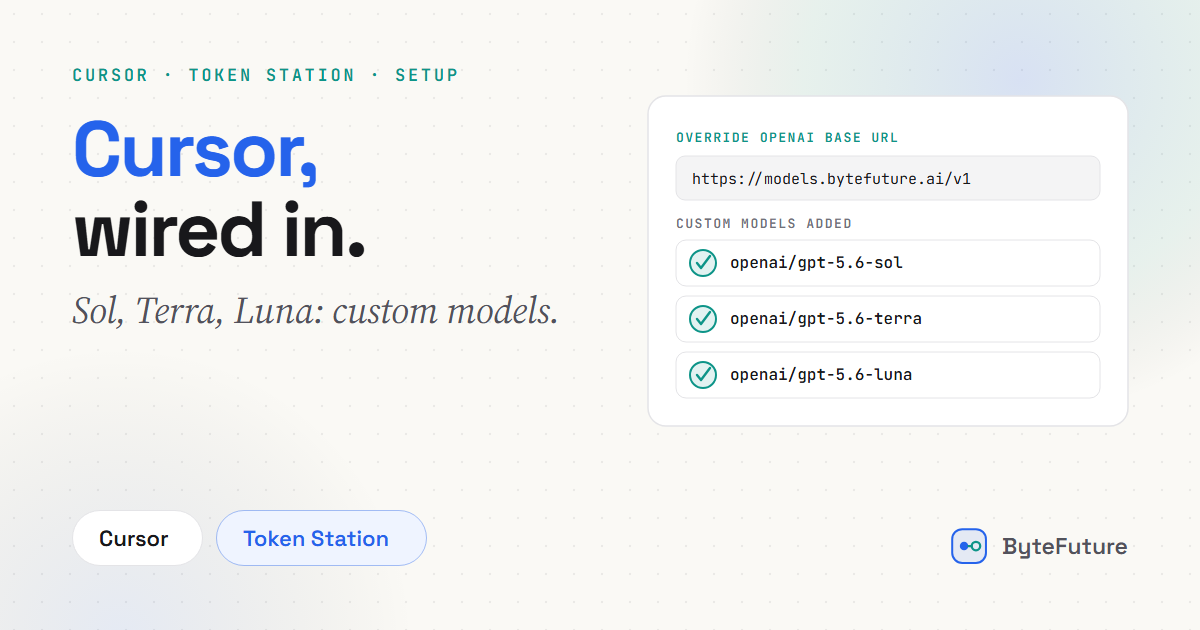
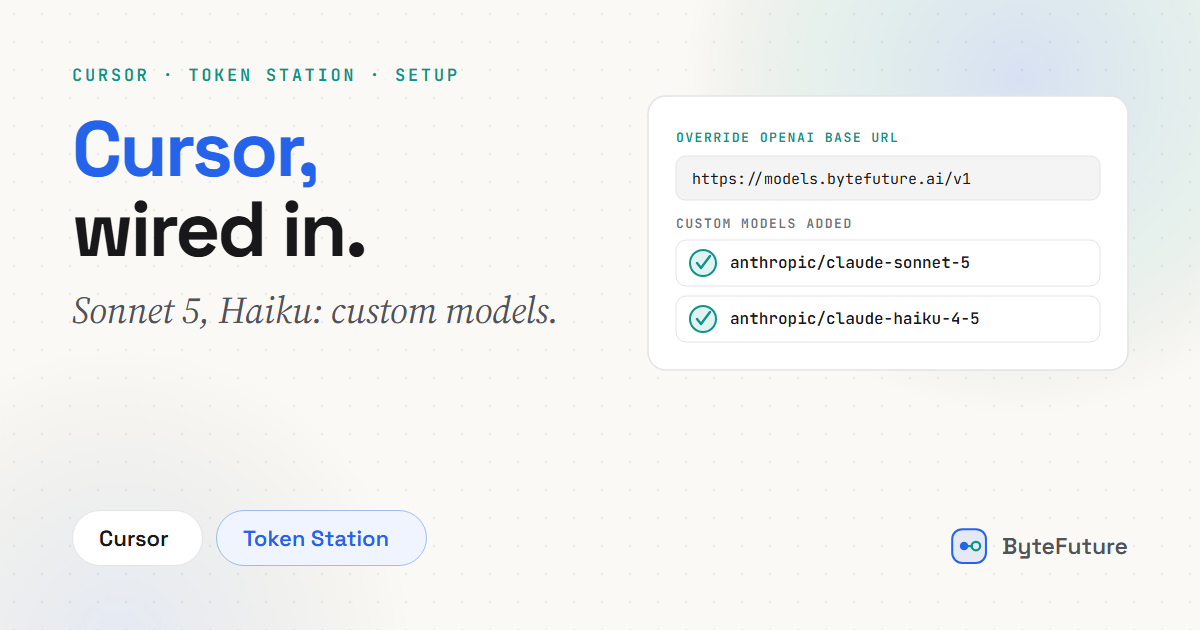
Rewrite Cursor article to use Claude Sonnet 5 and Haiku
Testing found Token Station's GPT-5.6 routes (Sol/Terra/Luna) can't
drive Cursor's Agent-mode file edits yet due to a tool-call response
format gap, while anthropic/claude-sonnet-5 and anthropic/claude-haiku-4-5
work end to end through the same BYOK setup. Replaces the GPT-5.6
framing throughout, adds a new step showing Sonnet 5 implementing a
real httpie feature and delegating to Haiku-backed subagents, and
updates the closing section to reflect what's now confirmed working
vs. still in progress. Mentions xai/grok-4.6 as another supported
option. Cover art updated to match.

NOT ready to merge: three existing videos (register-provider,
add-models, subagents) still show the old GPT-5.6 model names and
need re-recording; the new step 4 video (demo-httpie) doesn't exist
yet and needs the actual httpie session captured.

diff --git a/src/content/writings/en/route-cursor-through-token-station.md b/src/content/writings/en/route-cursor-through-token-station.md
@@ -1,16 +1,16 @@
 ---
 slug: "route-cursor-through-token-station"
 lang: "en"
-title: "Route Cursor through Token Station: GPT-5.6 Sol, Terra, and Luna"
-summary: "Cursor supports custom OpenAI-compatible providers through Settings, Models. Point it at Token Station and Sol, Terra, and Luna show up as selectable models, with two known gotchas: a Tab-focus workaround for a current input-field bug, and the openai/ prefix Token Station's routes actually need."
+title: "Route Cursor through Token Station: Claude Sonnet 5 and Haiku"
+summary: "Cursor supports custom OpenAI-compatible providers through Settings, Models. Point it at Token Station and Claude Sonnet 5 and Haiku show up as selectable models with full Agent-mode support: real file edits, not just chat, plus cost-tiered subagents."
 category: "tutorial"
-date: "2026-08-13"
+date: "2026-08-18"
 cta: "https://models.bytefuture.ai/intro.html"
 cover: "blog/route-cursor-through-token-station-cover.png"
 draft: false
 ---
 
-Cursor supports custom OpenAI-compatible providers through Settings → Models. Point it at Token Station's endpoint and you can add GPT-5.6's three named routes, Sol, Terra, and Luna, as selectable models, each billed through your own Token Station key. This walks through the setup end to end, including two gotchas we hit doing it ourselves: a current Cursor input-field bug, and a model-naming detail that silently breaks requests if you skip it.
+Cursor supports custom OpenAI-compatible providers through Settings → Models. Point it at Token Station's endpoint and you can add Claude Sonnet 5 and Haiku as selectable models, each billed through your own Token Station key. Unlike some other model families available through Token Station, these two fully support Cursor's Agent mode: real file edits, not just chat. This walks through the setup end to end, including two gotchas we hit doing it ourselves, and finishes with an actual coding session: Sonnet 5 implementing a real feature in an open-source project, delegating research and verification to Haiku-backed subagents.
 
 ## What you need before starting
 
@@ -36,45 +36,43 @@ Open **Settings → Cursor Settings → Models**, scroll to **API Keys**, and se
 
 Don't rely on a "Verify" button to confirm the key and URL are correct. It isn't always present, and even when it is, it doesn't cover every path. The reliable check is Step 2: add a model and actually send it a message.
 
-## Step 2: Add the three GPT-5.6 routes as custom models
+## Step 2: Add Claude Sonnet 5 and Haiku as custom models
 
-Still in Models settings, click **+ Add Custom Model** three times and add:
+Still in Models settings, click **+ Add Custom Model** twice and add:
 
 ```
-openai/gpt-5.6-sol
-openai/gpt-5.6-terra
-openai/gpt-5.6-luna
+anthropic/claude-sonnet-5
+anthropic/claude-haiku-4-5
 ```
 
 <figure>
   <video controls preload="metadata" playsinline>
     <source src="/blog/route-cursor-through-token-station/add-models.mp4" type="video/mp4">
   </video>
-  <figcaption>Adding openai/gpt-5.6-sol, openai/gpt-5.6-terra, and openai/gpt-5.6-luna as custom models.</figcaption>
+  <figcaption>Adding anthropic/claude-sonnet-5 and anthropic/claude-haiku-4-5 as custom models.</figcaption>
 </figure>
 
-**The gotcha**: Cursor sends whatever name you register here verbatim as the `model` field in its request. Token Station's actual route names include the `openai/` prefix. Register the model as plain `gpt-5.6-sol` and every request fails with `Model 'gpt-5.6-sol' not found`, because that model genuinely doesn't exist without the prefix. Register it with the prefix and it works immediately.
+**The gotcha**: Cursor sends whatever name you register here verbatim as the `model` field in its request. Token Station's actual route names include the `anthropic/` prefix. Register the model as plain `claude-sonnet-5` and every request fails with `Model 'claude-sonnet-5' not found`, because that model genuinely doesn't exist without the prefix. Register it with the prefix and it works immediately.
 
 To confirm it's actually working end to end, not just accepted by Cursor: open a chat, select one of the new models, send a trivial message, and check the [Token Station dashboard](https://models.bytefuture.ai/dashboard). A real reply plus a matching line in Recent Activity means the key, base URL, and model name are all correct.
 
 | Model | Good for |
 |---|---|
-| `openai/gpt-5.6-sol` | Flagship route for hard planning, debugging, and architecture questions. |
-| `openai/gpt-5.6-terra` | Middle tier for repeated implementation and debugging discussion. |
-| `openai/gpt-5.6-luna` | Lower-cost route for exploration, triage, and quick questions. |
+| `anthropic/claude-sonnet-5` | Main coding model: planning, implementation, and Agent-mode file edits. |
+| `anthropic/claude-haiku-4-5` | Lower-cost route for subagents: exploration, triage, and verification. |
 
-## Step 3: Define Luna-backed subagents
+## Step 3: Define Haiku-backed subagents
 
 Cursor supports subagents: markdown files with YAML frontmatter, defined per-project in `.cursor/agents/` or globally in `~/.cursor/agents/`, each with its own `model` field. That lets you point specific, narrowly-scoped delegations at a cheaper model than whatever your main chat is using.
 
-Two useful roles for a coding session, both on Luna:
+Two useful roles for a coding session, both on Haiku:
 
 **`.cursor/agents/explore.md`**
 ```markdown
 ---
 name: explore
 description: Searches and reads the codebase to answer questions about existing code. Use proactively before implementing anything unfamiliar.
-model: openai/gpt-5.6-luna
+model: anthropic/claude-haiku-4-5
 readonly: true
 ---
 
@@ -87,7 +85,7 @@ files, functions, and patterns. Never edit files or run mutating commands.
 ---
 name: test-runner
 description: Runs the test suite and reports pass/fail results with failure details. Use proactively after any code change.
-model: openai/gpt-5.6-luna
+model: anthropic/claude-haiku-4-5
 ---
 
 You run the project's test command, capture output, and report which
@@ -98,7 +96,7 @@ tests passed or failed and why. Do not modify source files.
   <video controls preload="metadata" playsinline>
     <source src="/blog/route-cursor-through-token-station/subagents.mp4" type="video/mp4">
   </video>
-  <figcaption>Creating the explore and test-runner subagents, both backed by openai/gpt-5.6-luna.</figcaption>
+  <figcaption>Creating the explore and test-runner subagents, both backed by anthropic/claude-haiku-4-5.</figcaption>
 </figure>
 
 `readonly: true` on `explore` blocks file edits and state-changing shell commands, which fits a pure research role. `test-runner` needs to actually execute the test command, so it's left without that restriction, with its instructions telling it not to touch source files.
@@ -107,16 +105,35 @@ Two ways to trigger a subagent in chat: automatic delegation, where the main age
 
 If you create these files by asking the agent in chat to write them rather than doing it from a terminal, and the sidebar still shows no subagents afterward, reload the window (**Ctrl+Shift+P → "Reload Window"**): Cursor doesn't always rescan `.cursor/agents/` live.
 
-## What works today, and what doesn't yet
+## Step 4: Watch it implement a real feature
 
-Chat and Ask mode with Sol, Terra, and Luna work as described above: real replies, correctly billed to your Token Station key, visible on the dashboard.
+With the provider, models, and subagents in place, Sonnet 5 can run an actual coding session end to end: research, implementation, and verification, delegating the cheaper steps to Haiku along the way.
 
-Full Agent-mode autonomy, the model reading your codebase and writing changes directly, is a different story. In our testing, custom OpenAI-compatible models added through Override Base URL could read and discuss code in Agent mode, but consistently failed to apply any actual file edit, regardless of which Cursor mode we tried. That matches reports from other users hitting the same wall: Cursor's Agent tool-calling harness expects a specific request and response shape, and a standard OpenAI-compatible endpoint isn't guaranteed to round-trip it the way Cursor's own hosted models do. This isn't a Token Station-specific issue: the same `openai/gpt-5.6-*` routes already drive real agentic tool-calling in Codex, so the model and the endpoint aren't the limiting factor here.
+We used [httpie](https://github.com/httpie/httpie), a real, moderately sized, well-tested open-source project, as the target. httpie's `--meta`/`-m` flag prints the request's elapsed time; it doesn't yet show the effective URL reached after following any redirects. That's a small, well-scoped, genuinely useful feature, the kind of task that needs a look at existing code before touching anything.
 
-If your workflow needs an agent that actually edits files, Token Station's Codex, Claude Code, and OpenClaw integrations are the proven path today. Cursor is a solid way to chat with Sol, Terra, and Luna inside your editor, with cost-tiered subagents for chat-based delegation, while its BYOK Agent-mode support catches up.
+The prompt we used, in Cursor's Agent mode with `anthropic/claude-sonnet-5` selected:
+
+> Add the effective URL (the URL actually reached after following any redirects) to HTTPie's `--meta` output, next to the existing elapsed time. Look at how elapsed time is computed and displayed first, then add a test that confirms it works for both a redirected and a non-redirected request.
+
+<figure>
+  <video controls preload="metadata" playsinline>
+    <source src="/blog/route-cursor-through-token-station/demo-httpie.mp4" type="video/mp4">
+  </video>
+  <figcaption>Sonnet 5 delegating research to the explore subagent, implementing the change itself, then delegating verification to test-runner, all through Token Station.</figcaption>
+</figure>
+
+Watch the [Token Station dashboard](https://models.bytefuture.ai/dashboard) during a session like this: you'll see `anthropic/claude-sonnet-5` billed for the planning and implementation steps, and `anthropic/claude-haiku-4-5` billed separately for the `explore` and `test-runner` delegations, the cost-tier split actually working, not just configured.
+
+## What works today
+
+Chat and Agent mode both work with Sonnet 5 and Haiku through Token Station in Cursor: real replies, real file edits, correctly billed to your Token Station key, visible on the dashboard. That includes subagent delegation, as shown above.
+
+That isn't true of every model family yet. Earlier testing with Token Station's GPT-5.6 routes (Sol, Terra, Luna) found that Agent mode could read and discuss code but consistently failed to apply actual file edits, a tool-call response format issue on Token Station's side rather than a hard Cursor limitation. Support for those routes is in progress. If you want a coding agent that reliably edits files in Cursor today, route it through `anthropic/claude-sonnet-5` and `anthropic/claude-haiku-4-5` rather than the GPT-5.6 family.
+
+Token Station's xAI route, `xai/grok-4.6`, is also supported in Cursor through the same custom-provider setup, if you'd rather try Grok for the main coding role.
 
 ## Get started
 
-Sign up at [models.bytefuture.ai](https://models.bytefuture.ai/signup): $1 in free credit, no card required, with up to $50 in bonus credit on your first top-up. Export your key, wire it into Cursor's Models settings, and add the three routes.
+Sign up at [models.bytefuture.ai](https://models.bytefuture.ai/signup): $1 in free credit, no card required, with up to $50 in bonus credit on your first top-up. Export your key, wire it into Cursor's Models settings, and add the two routes.
 
 [Try Token Station](https://models.bytefuture.ai/intro.html)
